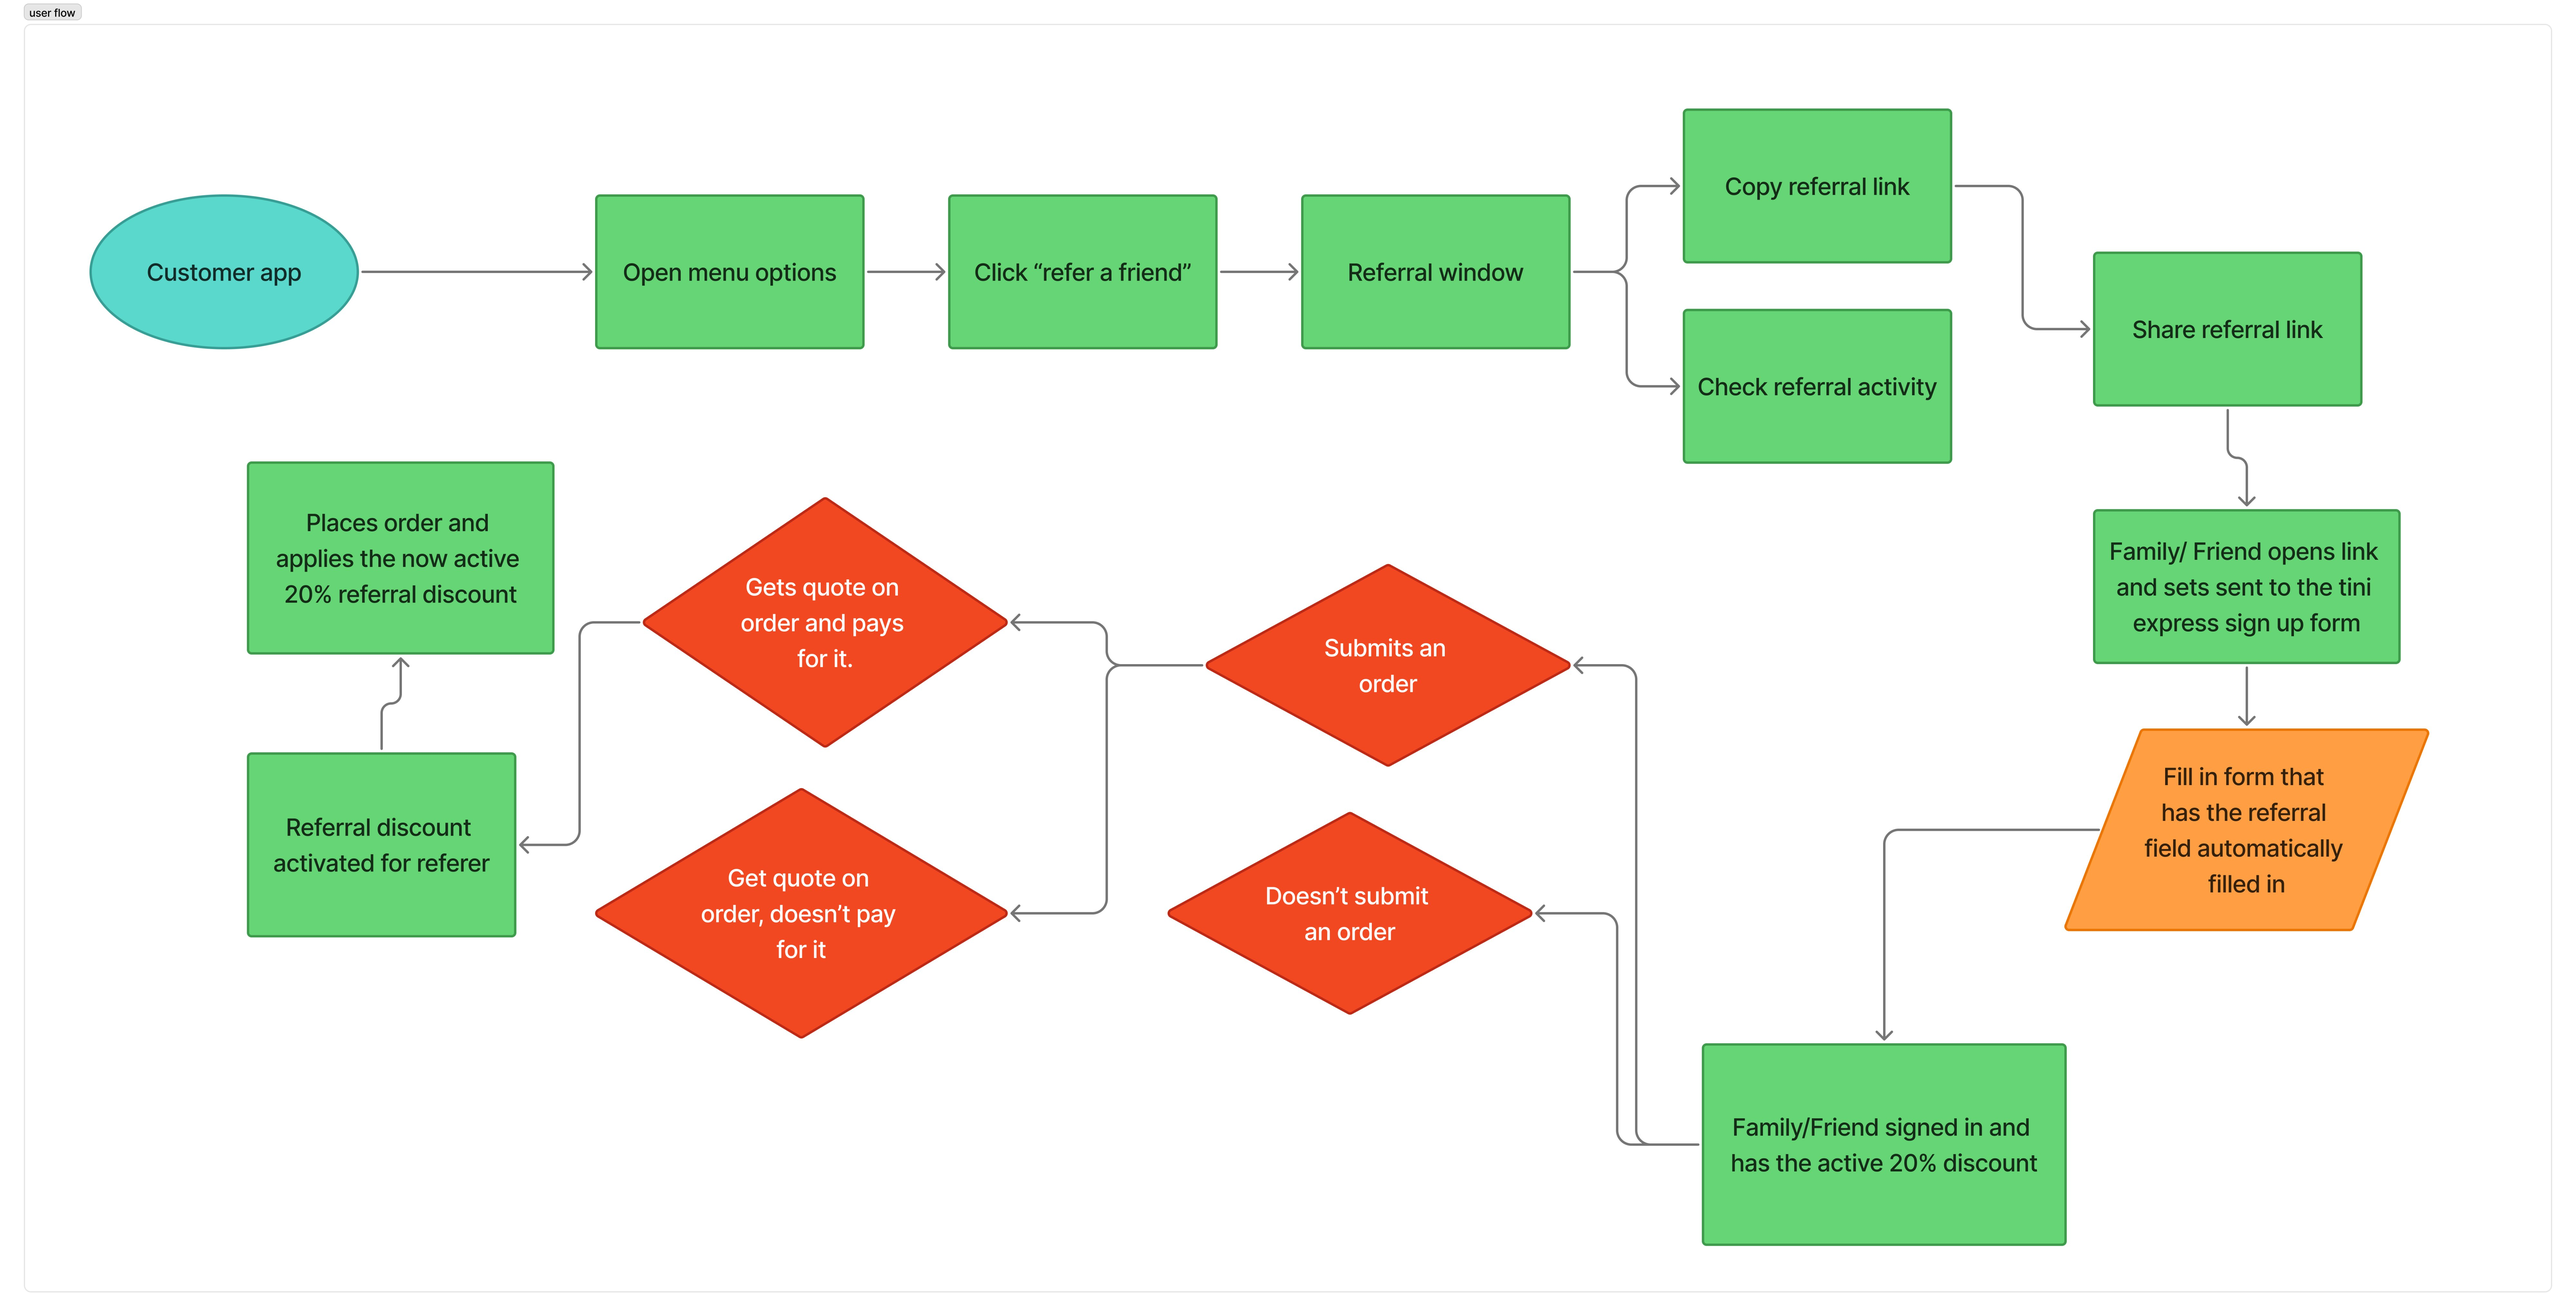
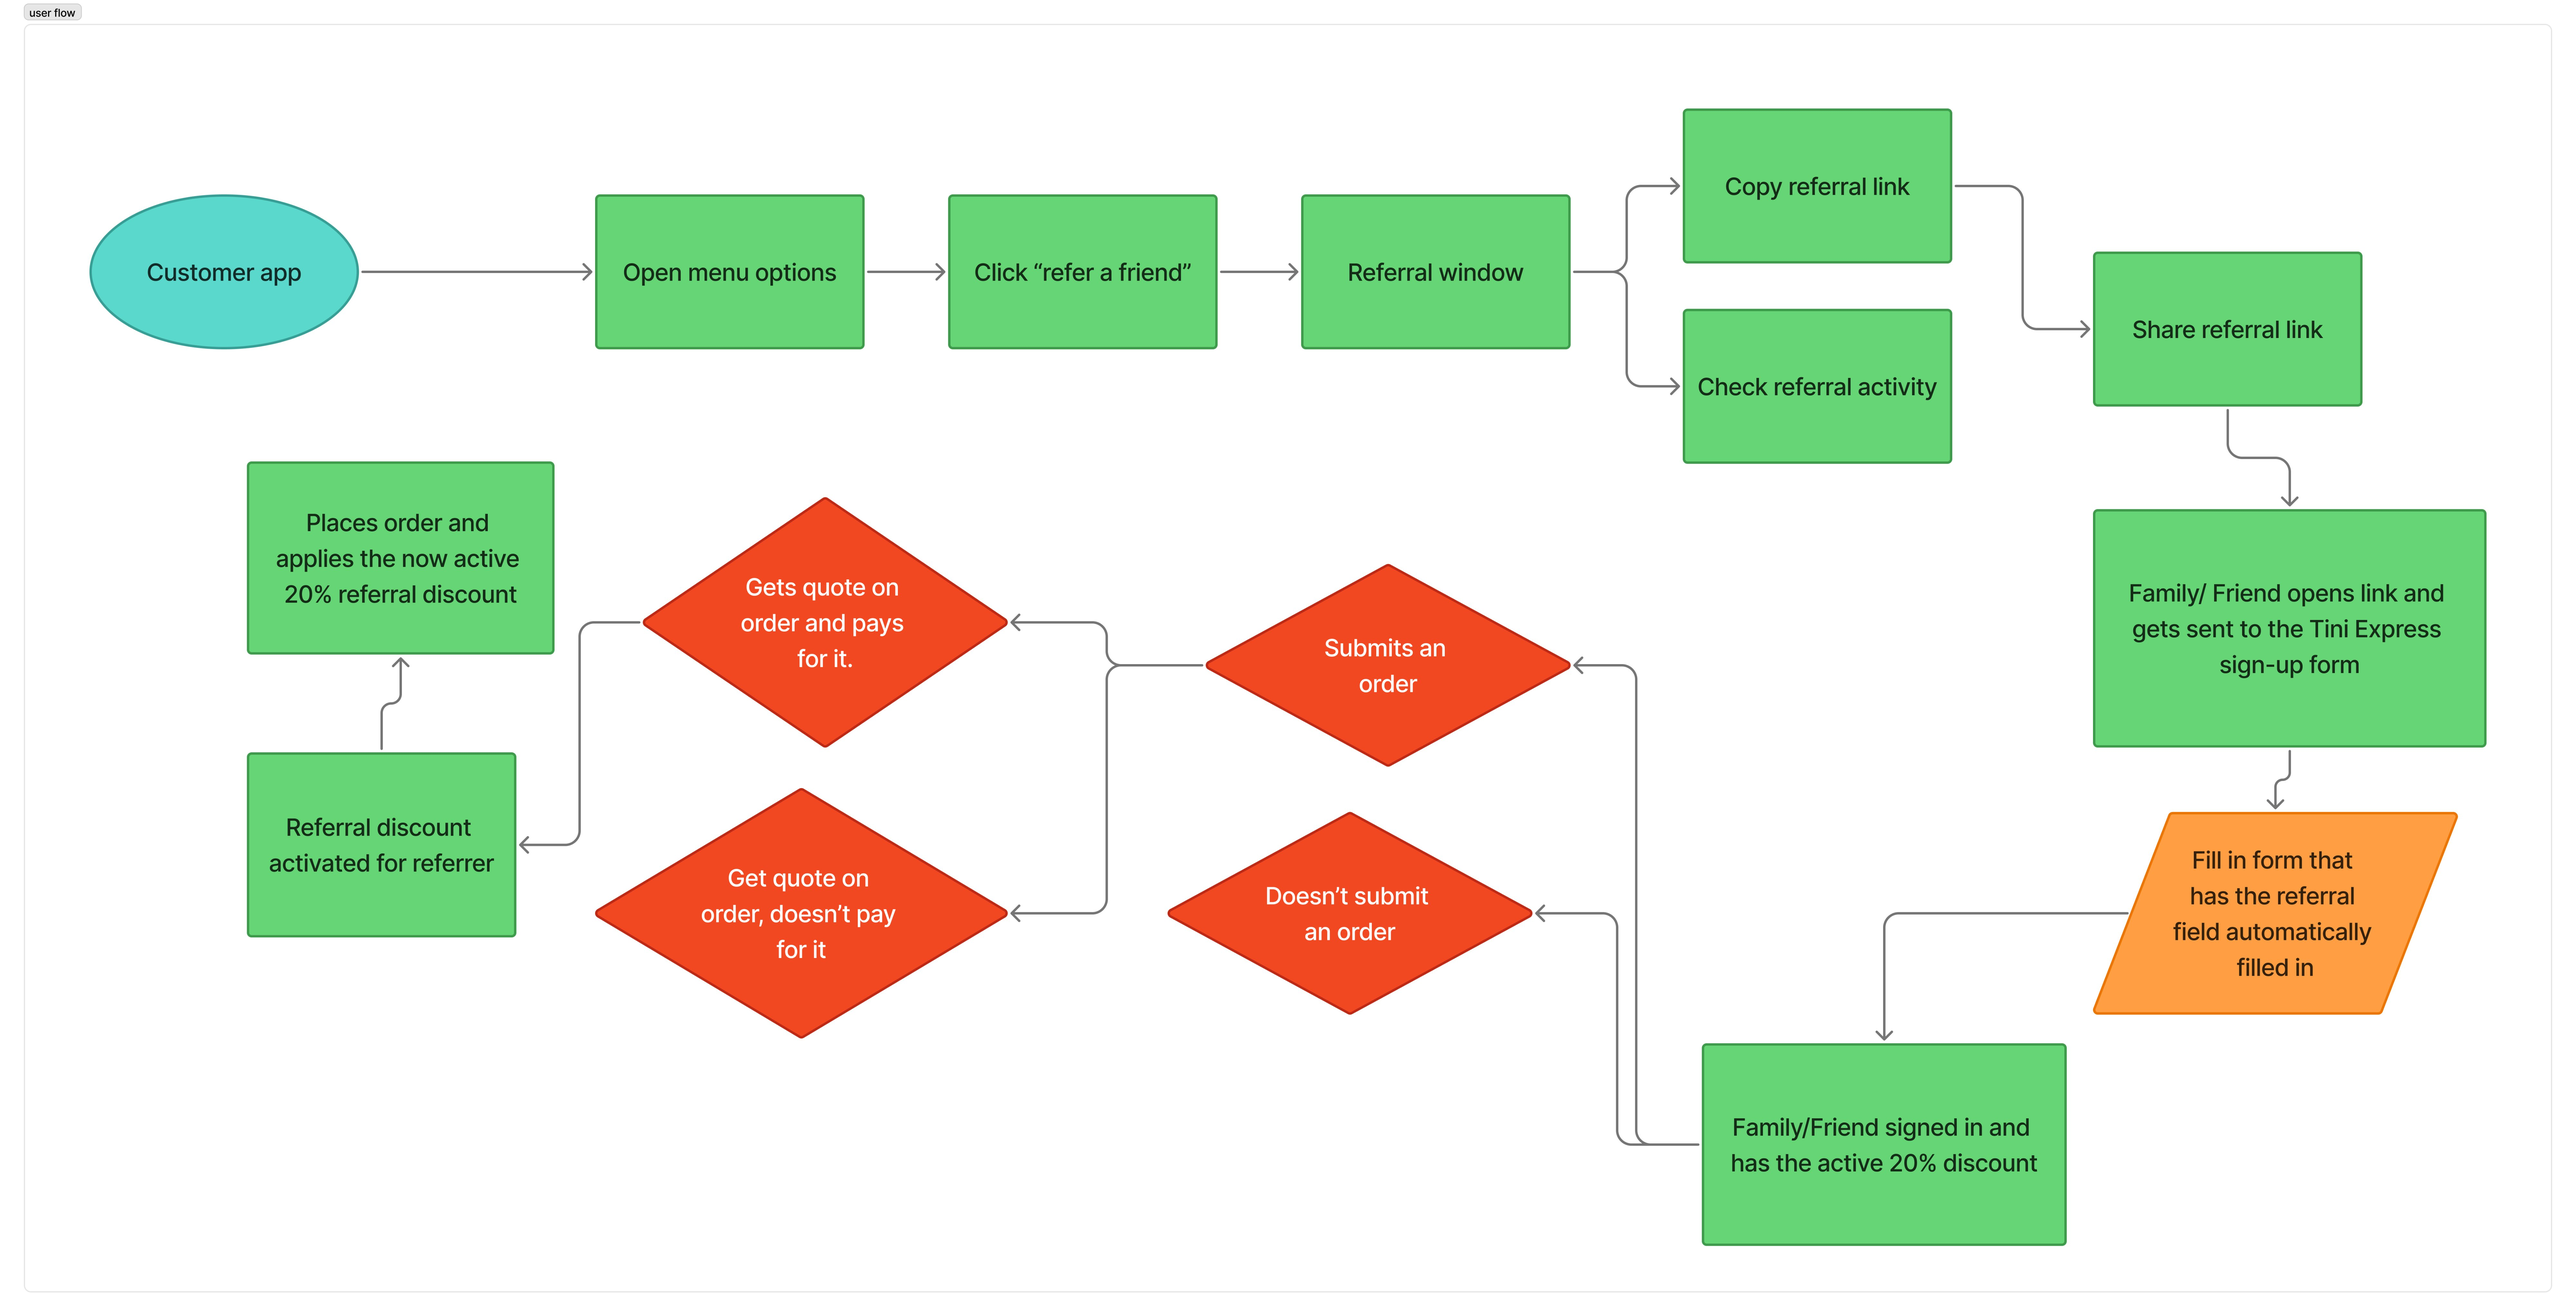
Update referral user flow diagram with corrected labels
Claude-Session: https://claude.ai/code/session_01BSkGrSos1EwxqCR2JSAz5E

Changed region(s): [[0.7812, 0.3728, 0.9688, 0.7767], [0.0938, 0.6524, 0.1875, 0.6835]]

diff --git a/Referral.html b/Referral.html
@@ -291,7 +291,7 @@
                 <div class="flow-arrow">&rarr;</div>
                 <div class="flow-step"><small>05</small>Referrer earns 20% off delivery on an order of their choice</div>
             </div>
-            <a href="assets/Referral/userflow.jpg" target="_blank" rel="noopener"><img src="assets/Referral/userflow.jpg" alt="Referral program user flow: from opening Refer a friend and sharing the link, through the friend's sign-up with the code pre-filled, to the referral activating once their first order is paid" class="diagram-img"></a>
+            <a href="assets/Referral/userflow.jpg?v=2" target="_blank" rel="noopener"><img src="assets/Referral/userflow.jpg?v=2" alt="Referral program user flow: from opening Refer a friend and sharing the link, through the friend's sign-up with the code pre-filled, to the referral activating once their first order is paid" class="diagram-img"></a>
         </section>
 
         <section>
